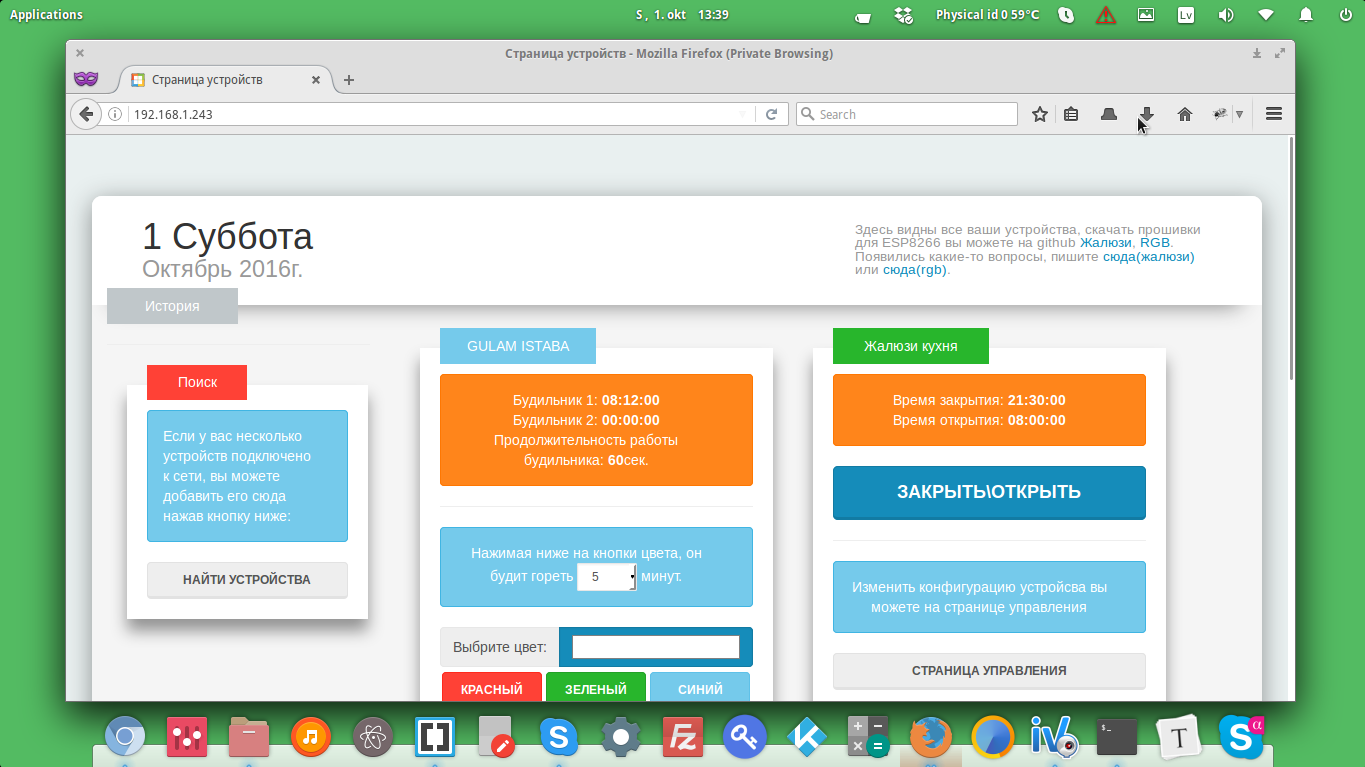
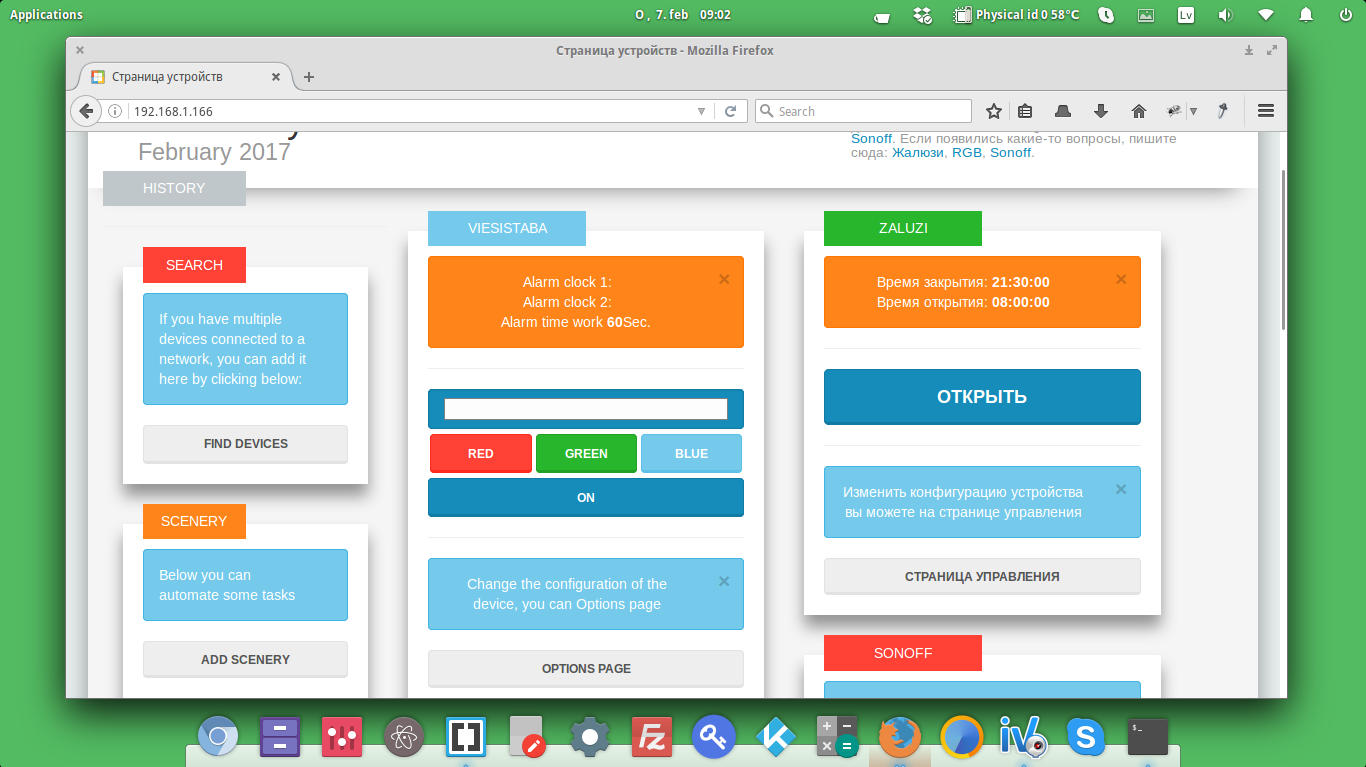
small fix

diff --git a/dev_data/index.htm b/dev_data/index.htm
@@ -30,17 +30,15 @@
     document.getElementById('date').innerHTML=now_day.day+' '+now_day.weekday+'<small class="show">'+now_day.month+' '+now_day.year+'<\/small>';
    }
 
-   function findDevice() {
+   function findDevice(submit) {
     document.getElementById('content').innerHTML='<div class="alert alert-dismissible alert-info"><div class="loader"><\/div><strong>Пожалуйста подождите, идет сканирование сети.<\/strong><\/div>';
-    var xhttp=createXmlHttpObject();
-    xhttp.open("GET", "/devices.scan.json?"+Math.floor(Math.random()*10000), false);
-    xhttp.send();
+    ajax(window.location.hostname,'devices.scan.json',submit, '1');
     setTimeout(function(){deviceList('search');document.getElementById("content").innerHTML='';}, 7000);
    }
 
    function deviceList(stage) {
-    document.getElementById("ifttt-if").innerHTML='';
-    document.getElementById("ifttt-then").innerHTML='';
+    document.getElementById("scenery-if").innerHTML='';
+    document.getElementById("scenery-then").innerHTML='';
     var xhttp=createXmlHttpObject();
     xhttp.open("GET", "/devices.list.json?"+Math.floor(Math.random()*10000), true);
     xhttp.send(null);
@@ -54,7 +52,7 @@
        //xhttp.open("GET", "http://"+ipval+"/devices.scan.json"+Math.floor(Math.random()*10000), false);
        //xhttp.send();
       }
-      if (stage == 'ifttt') {ifttt(ipval);}
+      if (stage == 'scenery') {loadScenery(ipval);}
       if (stage == 'first') {loadBlock(ipval,'content','first');}
      }
     }
@@ -66,7 +64,7 @@
     }
 
     var xhttp=createXmlHttpObject();
-    xhttp.open("GET", "http://"+ipval+"/block.htm?"+Math.floor(Math.random()*10000), true);
+    xhttp.open("GET", "http://"+ipval+"/block.htm", true);
     xhttp.send(null);
     xhttp.onload = function(e) {
      var data = xhttp.responseText;
@@ -94,6 +92,16 @@
         jsonResponse.state = jsonResponse.LangOff;
        }
 
+       if (window.location.hostname == ipval) {
+        var new_string2;
+        var bodyData = document.getElementsByTagName('body')[0].innerHTML;
+        for (var key in jsonResponse) {
+         new_string2 = bodyData.replace(new RegExp('{{'+key+'}}', 'g'), jsonResponse[key]);
+         bodyData = new_string2;
+        }
+        document.getElementsByTagName('body')[0].innerHTML = new_string2;
+       }
+
        var new_string;
        for (var key in jsonResponse) {
         new_string = data.replace(new RegExp('{{'+key+'}}', 'g'), jsonResponse[key]);
@@ -105,21 +113,21 @@
     }
    }
 
-   function ajax(blockIp, pagename, submit) {
+   function ajax(ipHost, pagename, submit, loadBlock) {
     var old_submit = submit.value;
     var d = new Date(); // for now
     var datetext = d.getHours()+":"+d.getMinutes()+":"+d.getSeconds();
     var parent = submit.parentNode.childNodes[1].innerHTML;
-    document.getElementById('history').insertAdjacentHTML('afterbegin', '<li>'+datetext+'<span class="history" style="cursor:pointer" onclick="toggle(\'hide-'+datetext+'\');return false"><b>'+parent+'<\/b><br><em>'+old_submit+'<\/em><small class="hidden" id="hide-'+datetext+'"><hr>URL: <a href="http://'+blockIp+'/'+pagename+'">http://'+blockIp+'/'+pagename+'<\/a><\/small><\/span><\/li>');
+    document.getElementById('history').insertAdjacentHTML('afterbegin', '<li>'+datetext+'<span class="history" style="cursor:pointer" onclick="toggle(\'hide-'+datetext+'\');return false"><b>'+parent+'<\/b><br><em>'+old_submit+'<\/em><small class="hidden" id="hide-'+datetext+'"><hr>URL: <a href="http://'+ipHost+'/'+pagename+'">http://'+ipHost+'/'+pagename+'<\/a><\/small><\/span><\/li>');
     submit.value = 'Loading...';
     submit_disabled(true);
     var xhttp=createXmlHttpObject();
-    xhttp.open("GET", "http://"+blockIp+"/"+pagename, true);
+    xhttp.open("GET", "http://"+ipHost+"/"+pagename, true);
     xhttp.send(null);
     xhttp.onload = function(e) {
      submit.value=old_submit;
      submit_disabled(false);
-     loadBlock(blockIp,'block-'+blockIp, '');
+     if (!loadBlock) loadBlock(ipHost,'block-'+ipHost, '');
     }
    }
 
@@ -161,18 +169,25 @@
     submit.parentNode.classList.add('hidden');
    }
 
-   function ifttt(ipval) {
+   function loadScenery(ipval) {
     var xhttp=createXmlHttpObject();
     xhttp.open("GET", "http://"+ipval+"/modules.json?"+Math.floor(Math.random()*10000), true);
     xhttp.send(null);
     xhttp.onload = function(e) {
      var jsonResponses = JSON.parse(xhttp.responseText);
      jsonResponses.ip = ipval;
-     document.getElementById("ifttt-if").innerHTML += '<option value="'+jsonResponses.ip+'">'+jsonResponses.SSDP+'<\/option>';
-     document.getElementById("ifttt-then").innerHTML += '<option value="'+jsonResponses.ip+'">'+jsonResponses.SSDP+'<\/option>';
+     document.getElementById("scenery-if").innerHTML += '<option value="'+jsonResponses.ip+'">'+jsonResponses.SSDP+'<\/option>';
+     document.getElementById("scenery-then").innerHTML += '<option value="'+jsonResponses.ip+'">'+jsonResponses.SSDP+'<\/option>';
     }
    }
 
+   function findSelect(val) {
+    var e = document.getElementById(val);
+    return e.options[e.selectedIndex].value;
+   }
+   function addScenery(submit) {
+    ajax(findSelect('scenery-if'), "scenery?ifstate="+findSelect('state1')+"&then="+findSelect('scenery-then')+"&state="+findSelect('state2'), submit, '1');
+   }
   </script>
  </head>
  <body>
@@ -182,33 +197,33 @@
     <h1 id="date"><br><small></small></h1>
    </div>
    <div class="col-sm-12 col-md-3">
-    <h5 style="background-color:#C0C7CA;cursor:pointer" onclick="toggle('history');return false">История</h5>
+    <h5 style="background-color:#C0C7CA;cursor:pointer" onclick="toggle('history');return false">{{LangHistory}}</h5>
     <ul id="history"></ul>
     <hr>
     <div class="block">
-     <h5 class="alert-danger">Поиск</h5>
-     <div class="alert alert-dismissible alert-info">Если у вас несколько устройств подключено к сети, вы можете добавить его сюда нажав кнопку ниже:</div>
-     <input type="button" class="btn btn-block btn-default" value="Найти устройства" onclick="findDevice();">
+     <h5 class="alert-danger">{{LangSearch1}}</h5>
+     <div class="alert alert-dismissible alert-info">{{LangSearch2}}</div>
+     <input type="button" class="btn btn-block btn-default" value="{{LangSearch3}}" onclick="findDevice(this);">
     </div>
     <div class="block">
-     <h5 class="alert-warning">Сценарии</h5>
-     <div class="alert alert-dismissible alert-info">Ниже вы можете автоматизировать некотоыре задачи</div>
-     <a href="#" onclick="deviceList('ifttt');toggle('ifttt');" class="btn btn-block btn-default">Добавить сценарий</a>
+     <h5 class="alert-warning">{{LangScenery1}}</h5>
+     <div class="alert alert-dismissible alert-info">{{LangScenery2}}</div>
+     <a href="#" onclick="deviceList('scenery');toggle('scenery');" class="btn btn-block btn-default">{{LangAddScenery}}</a>
     </div>
    </div>
-   <div class="col-sm-offset-2 col-sm-6 pop-up hidden" id="ifttt">
-    <h5 class="alert-warning">Сценарии</h5>
-    <div class="alert alert-dismissible alert-info">Ниже вы можее добавить всевозможный сценарии</div>
-    <h4>Если <select class="btn btn-default" id="ifttt-if"></select>
-     = <select class="btn btn-default"><option value="0">Вкл</option><option value="0">Выкл</option></select>
-     значит <select class="btn btn-default" id="ifttt-then"></select>
-     сделать  <select class="btn btn-default"><option value="0">Вкл</option><option value="0">Выкл</option></select>
+   <div class="col-sm-offset-2 col-sm-6 pop-up hidden" id="scenery">
+    <h5 class="alert-warning">{{LangScenery1}}</h5>
+    <div class="alert alert-dismissible alert-info">Soon... If you like this project, you can give me a cup of coffee paypal:wul@inbox.lv :) <br> Скоро... Чем больше будит пожерствований на проект, тем быстрее мы сделаем.</div>
+    <h4>{{LangIf}} <select class="btn btn-default" id="scenery-if"></select>
+     = <select class="btn btn-default" id="state1"><option value="1">{{LangOn.}}</option><option value="0">{{LangOff.}}</option></select>
+     {{LangThen}} <select class="btn btn-default" id="scenery-then"></select>
+     = <select class="btn btn-default" id="state2"><option value="1">{{LangOn.}}</option><option value="0">{{LangOff.}}</option></select>
     </h4>
-    <input type="button" class="btn btn-block btn-success" value="Добавить" onclick="toggle('ifttt');">
+    <input type="button" class="btn btn-block btn-success" value="{{LangSave}}" onclick="addScenery(this);toggle('scenery');">
     <hr>
     <h4>Список всех сценариев</h4>
-    <p id="ifttt-list"></p>
-    <input class="btn btn-block btn-default" value="Отмена" onclick="toggle('ifttt');" type="button">
+    <p id="scenery-list"></p>
+    <input class="btn btn-block btn-default" value="{{LangCancel}}" onclick="toggle('scenery');" type="button">
    </div>
    <div class="col-sm-12 col-md-9" style="text-align:center;" id="content">
    </div>

diff --git a/dev_data/setup.htm b/dev_data/setup.htm
@@ -4,7 +4,7 @@
   <meta http-equiv="Content-type" content="text/html; charset=utf-8">
   <link rel="stylesheet" type="text/css" href="css/build.css">
   <!-- <link rel="stylesheet" type="text/css" href="css/bootstrap.min.css">
-  <link rel="stylesheet" type="text/css" href="css/style.css"> -->
+<link rel="stylesheet" type="text/css" href="css/style.css"> -->
   <script type="text/javascript" src="js/function.js"></script>
   <meta name="viewport" content="width=device-width, initial-scale=1.0">
   <title>Settings page</title>
@@ -54,6 +54,7 @@
    function ddns(submit){
     server = "/ddns?ddns="+encodeURIComponent(val('ddns'))+"&ddnsName="+val("ddns-name")+"&ddnsPort="+val("ddns-port");
     send_request(submit,server);
+    alert(jsonResponse.LangReset2);
    }
    function first_restart(submit,texts){
     var LangConnect2 = jsonResponse.LangConnect2;
@@ -89,6 +90,7 @@
       <a class="btn btn-block btn-default" href="/device.htm">{{LangOptions1}}</a>
       <hr id="hide-hr1">
       <div class="alert alert-dismissible alert-info">
+       <a href="/help.htm" target="_blank" class="close">?</a>
        {{LangSetting4}}
        <span id="hide" class="hidden">
         <b>{{LangSetting5}} <a href="https://github.com/renat2985/rgb/tree/master/build" target="_blank">github</a></b>

diff --git a/README.md b/README.md
@@ -13,23 +13,28 @@
 - S1 	1 	Pushbutton Momentary switches that close a circuit when pressed. 	TACTILE-PTH
 - PIEZO1 	1 	Buzzer [Piezo small] This is the Piezo buzzer included in the DFRobot Kit. It is 12mm in diameter. See datasheet for frequency response. 	PIEZO 12mm DIAMETER
 
-###[Upload from NodeMCU Flasher](https://github.com/renat2985/rgb/tree/master/build)
 
-##Video youtube
 
-###Upload (Windows, Arduino)
+##Upload instruction
 
-[![IMAGE ALT TEXT HERE](https://img.youtube.com/vi/jMK9mySGHio/0.jpg)](https://www.youtube.com/watch?v=jMK9mySGHio)
+###[NodeMCU Flasher (Easy)](https://github.com/renat2985/rgb/tree/master/build)
 
-###Upload (Linux, Arduino)
+###[Arduino Windows (Video)](https://www.youtube.com/watch?v=jMK9mySGHio)
 
-[![IMAGE ALT TEXT HERE](https://img.youtube.com/vi/1TAHlRqZ46k/0.jpg)](https://www.youtube.com/watch?v=1TAHlRqZ46k)
+###[Arduino Linux (Video)](https://www.youtube.com/watch?v=1TAHlRqZ46k)
 
-###Example
+
+##Work example (Video)
 
 [![IMAGE ALT TEXT HERE](https://img.youtube.com/vi/LZI4Yu47LZI/0.jpg)](https://www.youtube.com/watch?v=LZI4Yu47LZI&list=PL6NJTNxbvy-IPTDQk8XjTV41oRrFafrRi)
 
 ##Construction
+```
+#define TACH_PIN 0    // Кнопка управления
+#define BUZER_PIN 3   // Бузер
+#define LED_PIN 2     // RGB лента
+#define LED_COUNT 15  // Количество лед огней
+```
 [https://circuits.io/circuits/2546437-esp8266-and-rgb-ws2811](https://circuits.io/circuits/2546437-esp8266-and-rgb-ws2811)
 
 ###Breadboard
@@ -42,12 +47,12 @@
 
 ##Othe...
 
-Jalousie: [https://github.com/tretyakovsa/jaluzi](https://github.com/tretyakovsa/jaluzi)
+####Jalousie: [https://github.com/tretyakovsa/jaluzi](https://github.com/tretyakovsa/jaluzi)
 
-Sonoff: [https://github.com/tretyakovsa/Sonoff_WiFi_switch](https://github.com/tretyakovsa/Sonoff_WiFi_switch)
+####Sonoff: [https://github.com/tretyakovsa/Sonoff_WiFi_switch](https://github.com/tretyakovsa/Sonoff_WiFi_switch)
 
 
-###Themes you can download here: [http://bootswatch.com/](http://bootswatch.com/)
+####Themes you can download here: [http://bootswatch.com/](http://bootswatch.com/)
 
 
 ##Donation
